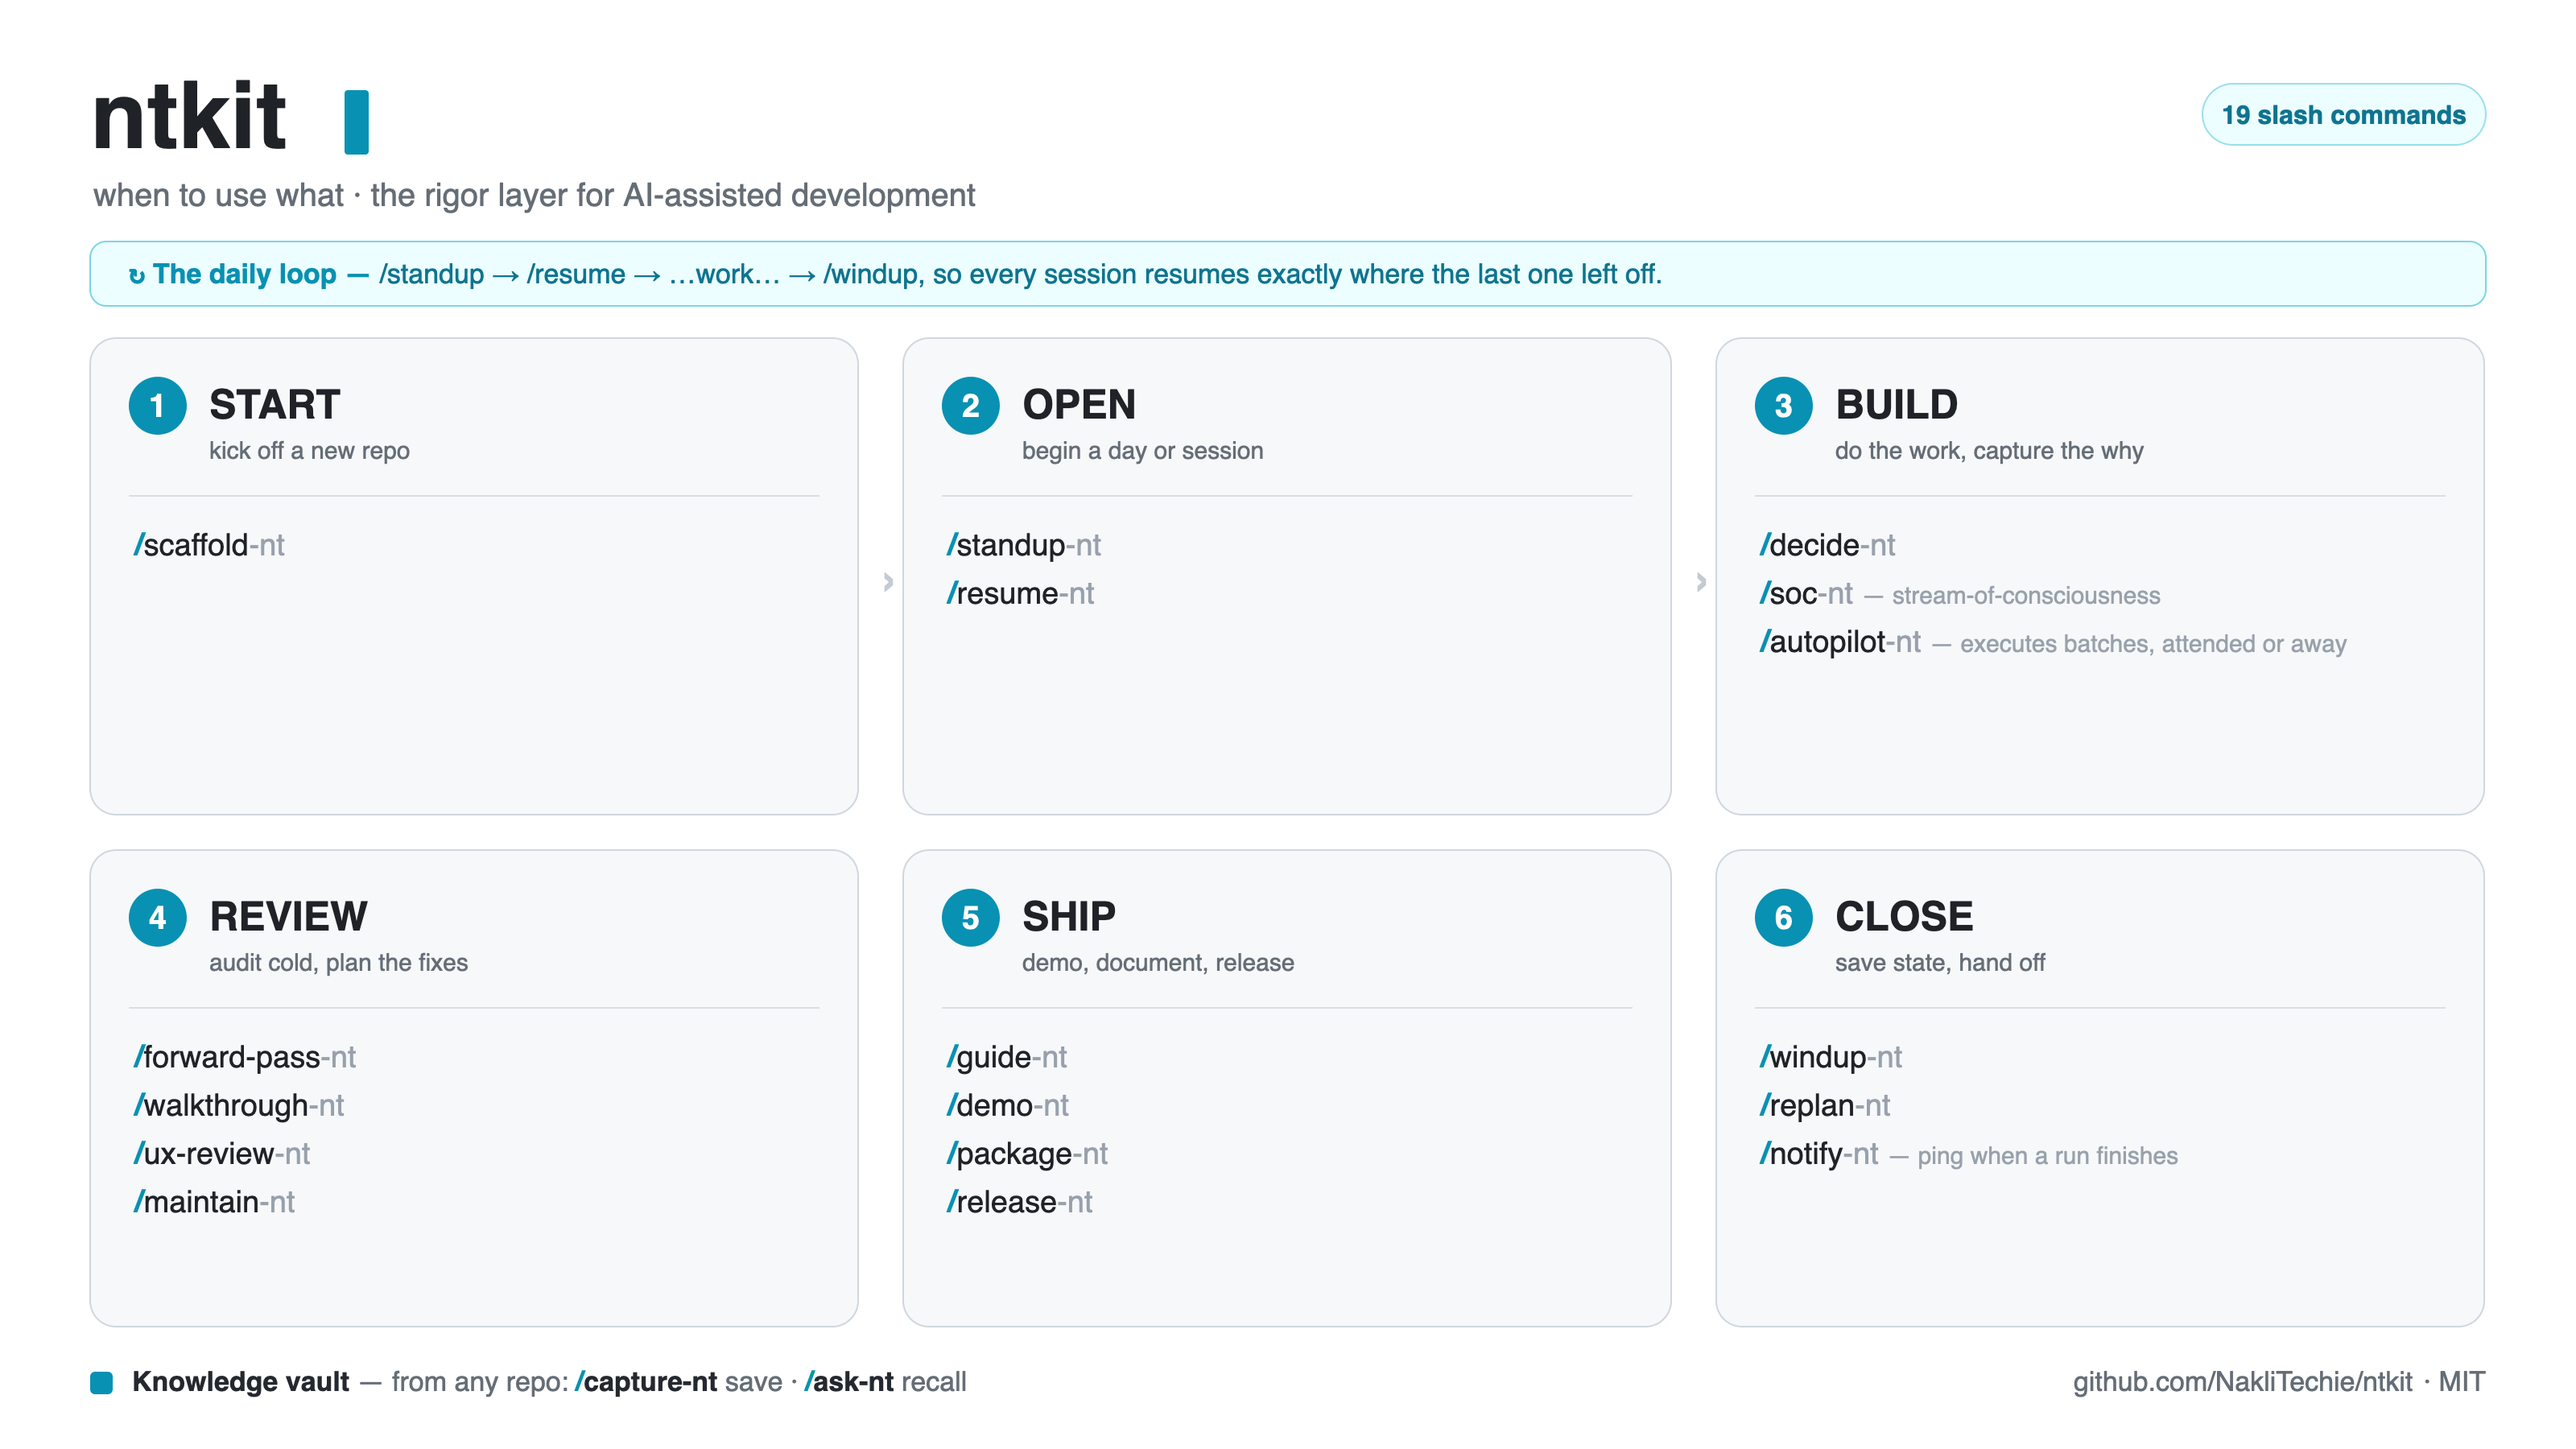
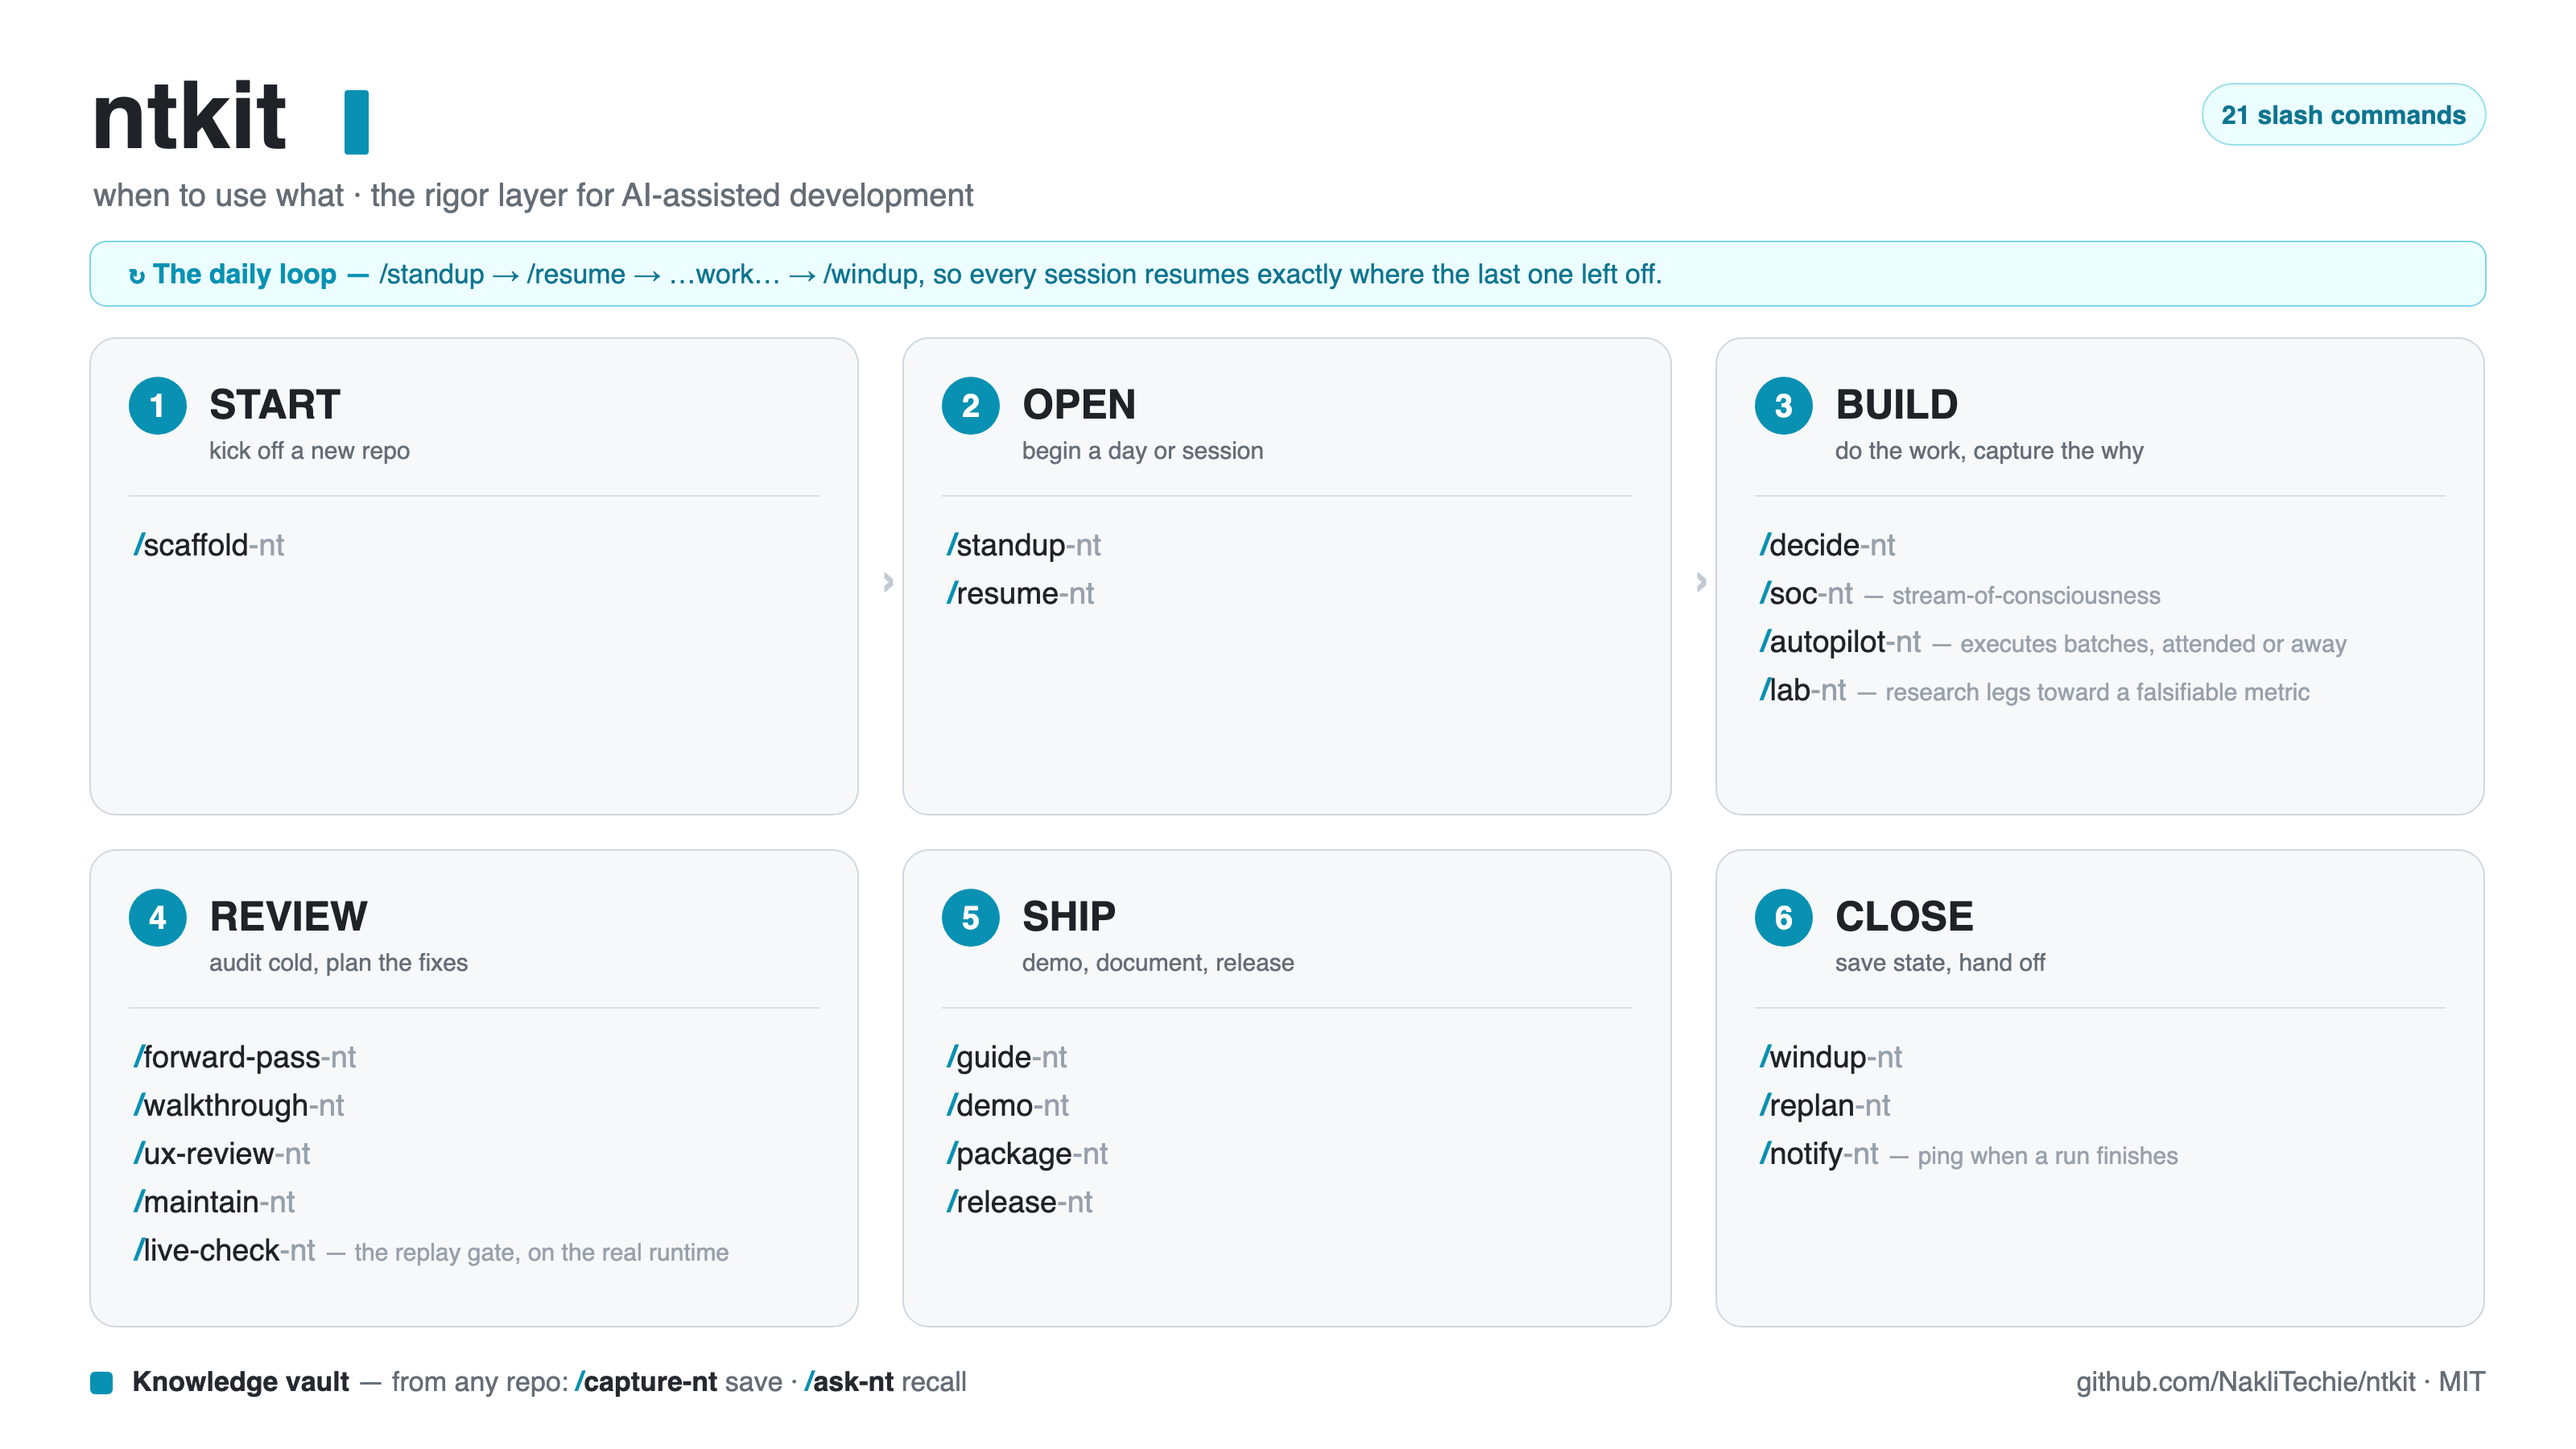
docs(readme,assets): put /live-check-nt on the map; reconcile the count to 21
The workflow image showed 19 commands while there were already 21 (the map had
never picked up /lab-nt, and now /live-check-nt). Regenerate both workflow images
(wide + square) from their SVGs with both commands added — /live-check-nt in
REVIEW ("the replay gate, on the real runtime"), /lab-nt in BUILD ("research
legs") — and set the count to the true 21 in the pills, alt text, README prose,
and AUTHORING.

- assets/workflow.svg + workflow.png (3200x1800), workflow-square.svg + .png (2400x2400)
- README.md: "twenty" -> "twenty-one", img alt "19" -> "21", "all twenty" -> "all twenty-one"
- AUTHORING.md: count + "next command" ordinal

diff --git a/README.md b/README.md
@@ -2,10 +2,10 @@
 
 **The rigor layer for AI-assisted development.**
 
-Coding agents are great at writing code and bad at everything around it — remembering what you decided last week, picking a project back up mid-thought, auditing the *whole* app instead of just the diff, reporting *done* when nothing verified it, shipping without leaking a secret. `ntkit` is twenty [Claude Code](https://docs.claude.com/en/docs/claude-code) slash commands that add that operational discipline — the opposite of vibe coding — across as many repos as you run at once.
+Coding agents are great at writing code and bad at everything around it — remembering what you decided last week, picking a project back up mid-thought, auditing the *whole* app instead of just the diff, reporting *done* when nothing verified it, shipping without leaking a secret. `ntkit` is twenty-one [Claude Code](https://docs.claude.com/en/docs/claude-code) slash commands that add that operational discipline — the opposite of vibe coding — across as many repos as you run at once.
 
 <p align="center">
-  <img src="assets/workflow.png" alt="ntkit workflow map — 19 Claude Code commands across six phases: start, open, build, review, ship, close, plus a daily session loop and a knowledge-vault pair" width="840">
+  <img src="assets/workflow.png" alt="ntkit workflow map — 21 Claude Code commands across six phases: start, open, build, review, ship, close, plus a daily session loop and a knowledge-vault pair" width="840">
 </p>
 
 Most share one idea: a **gitignored `plan/` folder** in each repo holding three files —
@@ -46,7 +46,7 @@ They speak one vocabulary, so each hands off to the next: `/windup-nt` writes wh
 
 That vocabulary was always secretly a state machine — `plan/` is the external state, the commands are events, windup→resume is a transition. [`STATES.md`](STATES.md) makes it explicit: six session states (`fresh → briefed → building → verifying → blocked / shipped`), which commands are legal from which, and the guards that enforce it. Four rules do the enforcing:
 
-- **Every command declares its contract in frontmatter** — `entry` (what it requires), `exit` (the machine-checkable condition that means it finished), `writes` (which plan files it touches). A command whose entry fails refuses; it doesn't proceed politely. `/release-nt` won't tag over a failing verifier or an open fix-workplan; `/autopilot-nt` won't invent a plan when neither an open report/workplan nor a goal exists. Writing or changing a command follows [`AUTHORING.md`](AUTHORING.md) — the one shape all twenty share, including the rule that outward-facing authority (push / merge / release / delete / send) is opt-in and defaults to denied.
+- **Every command declares its contract in frontmatter** — `entry` (what it requires), `exit` (the machine-checkable condition that means it finished), `writes` (which plan files it touches). A command whose entry fails refuses; it doesn't proceed politely. `/release-nt` won't tag over a failing verifier or an open fix-workplan; `/autopilot-nt` won't invent a plan when neither an open report/workplan nor a goal exists. Writing or changing a command follows [`AUTHORING.md`](AUTHORING.md) — the one shape all twenty-one share, including the rule that outward-facing authority (push / merge / release / delete / send) is opt-in and defaults to denied.
 - **"Done" is the verifier's word**, never the agent's — no state advances on a self-report.
 - **Overrides are deliberate and logged** — any guard yields to an explicit `/decide-nt` entry stating why. Bypassed on purpose with a reason is a decision; bypassed by drift is a bug.
 - **Asks are reserved for the unanswerable and the outward-facing** — missing input, unknown credentials, publish/post/release. Everything else takes the safe default, announces it, and logs it; you steer by interrupting, not by being polled.

diff --git a/AUTHORING.md b/AUTHORING.md
@@ -2,7 +2,7 @@
 
 Every `-nt` command is a prompt with a contract. This file is the standard for
 writing a new one — and the checklist for reviewing a change to an existing one.
-It exists because twenty commands drifting apart in shape is how a kit rots; one
+It exists because twenty-one commands drifting apart in shape is how a kit rots; one
 shape is how they stay composable. (The six-point idea is ported from the
 built-in-skill standards in [osolmaz/pi-workflows](https://github.com/osolmaz/pi-workflows),
 folded into ntkit's own doctrine.)
@@ -66,7 +66,7 @@ outward-facing — guard #4.
 
 The smallest command that fully meets the need, no speculative flags. `/notify-nt`
 is the floor — one job, best-effort, never blocks. If a new capability is a
-variant of an existing command, **extend it**; a twenty-first command must earn
+variant of an existing command, **extend it**; a twenty-second command must earn
 its slot against the minimal-tooling rule.
 
 ## Checklist
